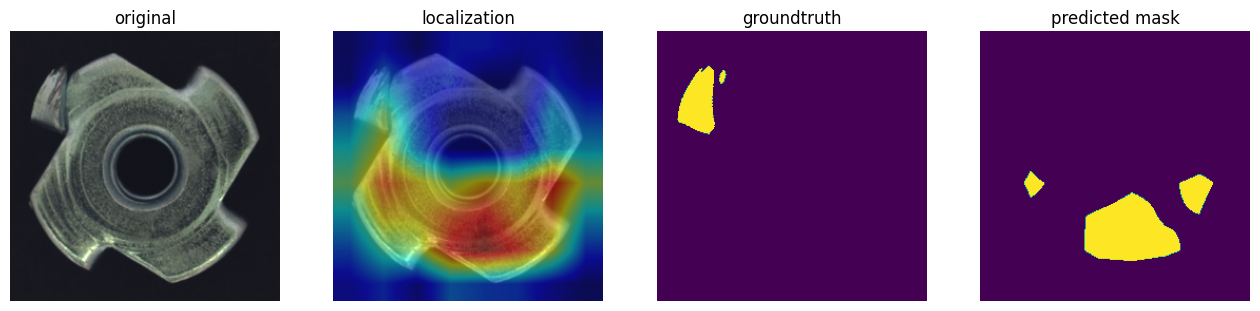
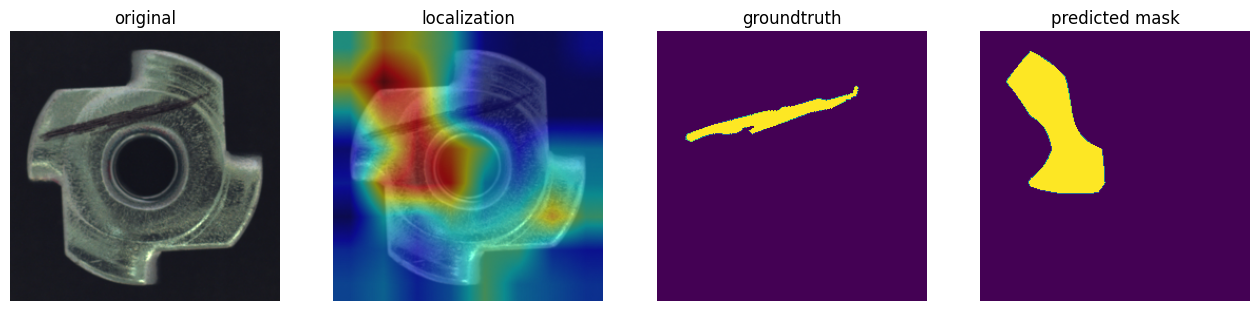
localization 🔍

diff --git a/src/localization.py b/src/localization.py
@@ -269,7 +269,7 @@ if __name__ == "__main__":
         root_outputs_dir='outputs/computations/',
         num_images=3,
         imsize=(256,256),
-        seed=187372311,
+        seed=123456789,
         patch_localization=False
         )
     #single_im()

diff --git a/README.md b/README.md
@@ -116,9 +116,9 @@ toothbrush |  0.85  |	0.81 |	0.4
 zipper     |  0.97  |	0.91 |  0.56
 ### Other Examples
 
-<img src="https://raw.githubusercontent.com/gabry1998/Self-Supervised-Anomaly-Detection/master/outputs/computations/cable/image_level/gradcam/heatmap_and_masks_1.png"/>
-<img src="https://raw.githubusercontent.com/gabry1998/Self-Supervised-Anomaly-Detection/master/outputs/computations/capsule/image_level/gradcam/heatmap_and_masks_1.png"/>
-<img src="https://raw.githubusercontent.com/gabry1998/Self-Supervised-Anomaly-Detection/master/outputs/computations/screw/image_level/gradcam/heatmap_and_masks_1.png"/>
+<img src="https://raw.githubusercontent.com/gabry1998/Self-Supervised-Anomaly-Detection/master/outputs/computations/cable/image_level/gradcam/heatmap_and_masks_0.png"/>
+<img src="https://raw.githubusercontent.com/gabry1998/Self-Supervised-Anomaly-Detection/master/outputs/computations/capsule/image_level/gradcam/heatmap_and_masks_0.png"/>
+<img src="https://raw.githubusercontent.com/gabry1998/Self-Supervised-Anomaly-Detection/master/outputs/computations/screw/image_level/gradcam/heatmap_and_masks_0.png"/>
 <img src="https://raw.githubusercontent.com/gabry1998/Self-Supervised-Anomaly-Detection/master/outputs/computations/tile/image_level/gradcam/heatmap_and_masks_1.png"/>
 <img src="https://raw.githubusercontent.com/gabry1998/Self-Supervised-Anomaly-Detection/master/outputs/computations/toothbrush/image_level/gradcam/heatmap_and_masks_1.png"/>
-<img src="https://raw.githubusercontent.com/gabry1998/Self-Supervised-Anomaly-Detection/master/outputs/computations/zipper/image_level/gradcam/heatmap_and_masks_1.png"/> 
+<img src="https://raw.githubusercontent.com/gabry1998/Self-Supervised-Anomaly-Detection/master/outputs/computations/zipper/image_level/gradcam/heatmap_and_masks_0.png"/> 
